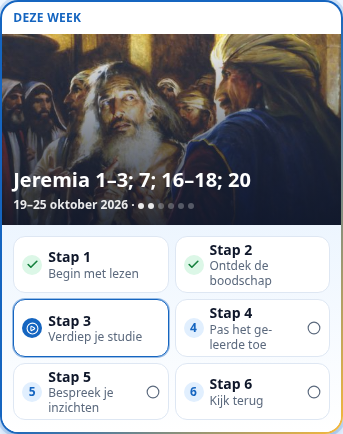
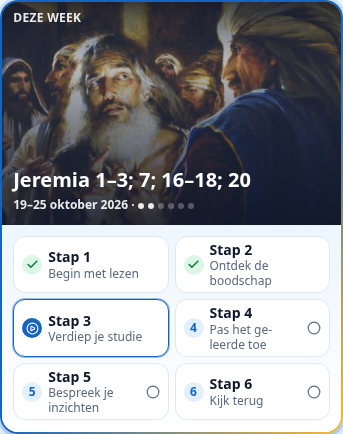
Plaats het CFM-weeklabel op de lesafbeelding

Changed region(s): [[0.0, 0.0, 1.0, 0.5092], [0.8163, 0.2396, 0.8455, 0.2696]]

diff --git a/src/components/study/CfmWeekPath.tsx b/src/components/study/CfmWeekPath.tsx
@@ -48,8 +48,8 @@ function LessonImage({ src }: { src: string }) {
 }
 
 /** Dezelfde overlaykleuren en teksthiërarchie als ActiveChapterCard; tekst blijft in de flow bij lange titels. */
-function LessonHeading({ imageSrc, title, subtitle, active = false, trailing }: {
-  imageSrc: string | null; title: string; subtitle: React.ReactNode; active?: boolean; trailing?: React.ReactNode;
+function LessonHeading({ imageSrc, title, subtitle, active = false, trailing, eyebrow }: {
+  imageSrc: string | null; title: string; subtitle: React.ReactNode; active?: boolean; trailing?: React.ReactNode; eyebrow?: string;
 }) {
   const [failed, setFailed] = useState(false);
   const showImage = !!imageSrc && !failed;
@@ -57,11 +57,15 @@ function LessonHeading({ imageSrc, title, subtitle, active = false, trailing }: 
   return (
     <span data-cfm-lesson-heading data-image-overlay={showImage || undefined} className={`relative grid w-full min-w-0 overflow-hidden ${showImage ? "bg-vs-overlay" : "bg-gradient-to-br from-vs-accent-soft to-vs-surface"}`}>
       {showImage && <>
-        <span aria-hidden className="col-start-1 row-start-1 aspect-video w-full" />
+        <span aria-hidden className={`col-start-1 aspect-video w-full ${eyebrow ? "row-start-2" : "row-start-1"}`} />
         <Image unoptimized src={imageSrc!} alt="" fill sizes="(min-width: 1024px) 640px, 100vw" loading="lazy" className="pointer-events-none object-cover" onError={() => setFailed(true)} />
         <span aria-hidden className="pointer-events-none absolute inset-0 bg-gradient-to-t from-vs-overlay/90 via-vs-overlay/50 to-transparent" />
       </>}
-      <span className={`relative col-start-1 row-start-1 flex min-w-0 self-end items-end gap-3 p-[clamp(0.5rem,3vw,0.75rem)] ${showImage ? "pt-10 text-white" : "text-vs-fg"}`}>
+      {eyebrow && <>
+        {showImage && <span aria-hidden className="pointer-events-none absolute inset-x-0 top-0 h-16 bg-gradient-to-b from-vs-overlay/80 to-transparent" />}
+        <span data-cfm-week-label className={`relative col-start-1 row-start-1 px-[clamp(0.5rem,3vw,0.75rem)] py-2 text-xs font-extrabold uppercase tracking-wide ${showImage ? "text-white/90" : "text-vs-accent"}`}>{eyebrow}</span>
+      </>}
+      <span data-cfm-heading-text className={`relative col-start-1 ${eyebrow ? "row-start-2" : "row-start-1"} flex min-w-0 self-end items-end gap-3 p-[clamp(0.5rem,3vw,0.75rem)] ${showImage ? "pt-10 text-white" : "text-vs-fg"}`}>
         <span className="min-w-0 flex-1">
           <span role={active ? "heading" : undefined} aria-level={active ? 2 : undefined} className={`vs-wrap block font-extrabold leading-snug ${active ? "text-xl" : "text-base"}`}>{title}</span>
           <span className={`vs-wrap mt-1 block text-xs ${active ? "font-semibold" : ""} ${showImage ? "text-white/90" : "text-vs-fg-3"}`}>{subtitle}</span>
@@ -201,10 +205,7 @@ export default function CfmWeekPath({
                 eyebrow={labelKey ? t(labelKey) : undefined}
                 artworkKeys={[]}
                 imageSrc={null}
-                header={mode === "STEPS" ? <>
-                  {labelKey && <p className="px-[clamp(0.5rem,3vw,0.75rem)] py-2 text-xs font-extrabold uppercase tracking-wide text-vs-accent">{t(labelKey)}</p>}
-                  <LessonHeading key={imageSrc} imageSrc={imageSrc} title={week.title} subtitle={subtitle} active />
-                </> : undefined}
+                header={mode === "STEPS" ? <LessonHeading key={imageSrc} imageSrc={imageSrc} title={week.title} subtitle={subtitle} active eyebrow={labelKey ? t(labelKey) : undefined} /> : undefined}
               >
                 {mode === "STEPS" ? (
                   <WeekSteps week={week} sessionKey={sessionKey} />

diff --git a/docs/CFM-KAARTOVERLAY.md b/docs/CFM-KAARTOVERLAY.md
@@ -6,7 +6,7 @@ PR #208 gaf `ActiveChapterCard` expliciet `imageSrc={null}` en plaatste een afzo
 
 `CfmWeekPath.tsx` gebruikt nu één lokale `LessonHeading` voor de open kaarten in Stap voor stap. De officiële afbeelding vormt de achtergrond, met de bestaande Versado-overlaygradient (`from-vs-overlay/90 via-vs-overlay/50`) en de bestaande titel-/datumhiërarchie onderaan. Voortgangsstippen, voltooiingsicoon, uitklapknop en stapstatussen blijven behouden. De beeldruimte reserveert 16:9; het tekstelement deelt dezelfde gridcel en kan de kop hoger maken bij lange titels of grote tekst, zodat niets wordt afgekapt. `object-cover` vult het vlak zonder vervorming, met dezelfde gecentreerde uitsnede als de bestaande actieve kaart.
 
-`ActiveChapterCard` in `reading/pathParts.tsx` krijgt één optionele `header`-slot. CFM gebruikt die uitsluitend bij Stap voor stap om het bestaande weeklabel boven de afbeelding te houden. De bestaande blauwe/gouden rand, bodyachtergrond en afrondingen blijven uit die gedeelde component komen. Alle andere aanroepers behouden de bestaande standaardkop. Vrije studie is niet aangepast.
+`ActiveChapterCard` in `reading/pathParts.tsx` krijgt één optionele `header`-slot. CFM gebruikt die uitsluitend bij Stap voor stap om het bestaande weeklabel linksboven op de afbeelding te houden. De bestaande blauwe/gouden rand, bodyachtergrond en afrondingen blijven uit die gedeelde component komen. Alle andere aanroepers behouden de bestaande standaardkop. Vrije studie is niet aangepast.
 
 De zes bestaande stapkaarten staan direct onder de kop, nu consequent in twee kolommen. Volgorde, statusbepaling, links en callbacks zijn ongewijzigd. Ingeklapte kaarten monteren geen afbeelding en houden hun oorspronkelijke `Heading`, klassen en bediening. Zonder beeld of na een laadfout blijft de volledige tekstkop met datum en voortgang zichtbaar, zonder lege beeldruimte of vervangend beeld.
 
@@ -41,7 +41,7 @@ De fixture vervangt uitsluitend datahooks, I18n, Next Link en Next Image; de pro
 
 ## Mobiele screenshots (375 px)
 
-Actieve kaart:
+Actieve kaart (weeklabel op de afbeelding, met een subtiele donkere bovengradient voor contrast; de titel/datum en totale kaarthoogte behouden hun positie):
 
 ![Actieve kaart met weeklabel en overlay](screenshots/cfm-overlay/active-mobile.png)
 
